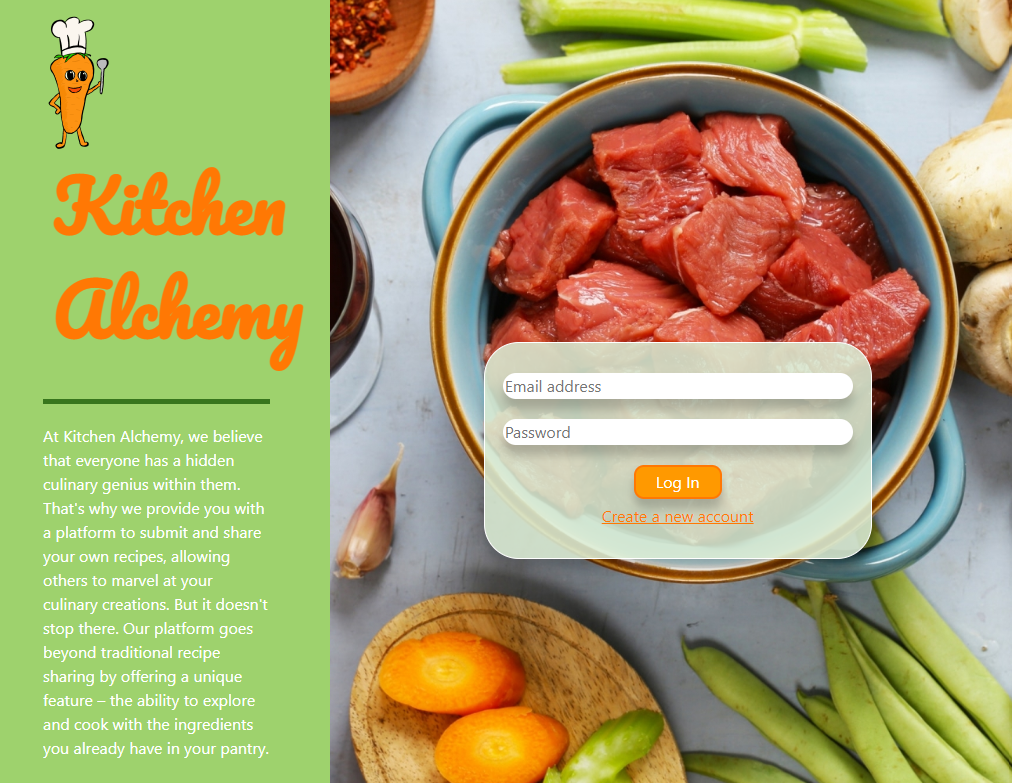
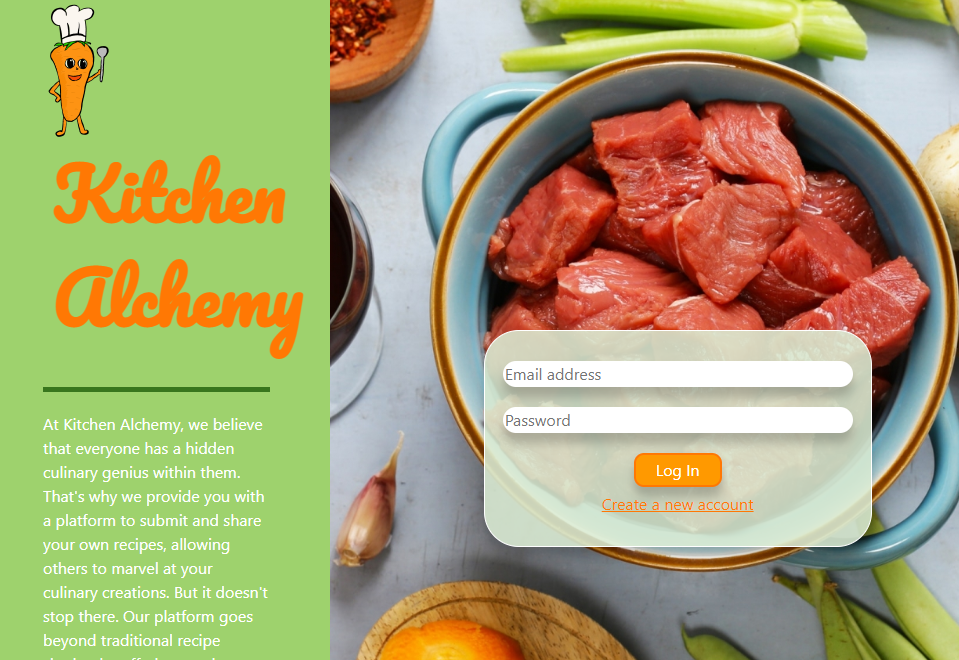
switch box to grid component

diff --git a/src/components/pages/Resume.js b/src/components/pages/Resume.js
@@ -2,22 +2,9 @@ import React from 'react';
 import ResumePDF from '../../assets/files/Sarah-Jensen_resume.pdf';
 import BackEnd from '../../assets/images/back-end.png';
 import FrontEnd from '../../assets/images/front-end.png';
-import {
-  Box,
-  Button,
-  Card,
-  CardActionArea,
-  CardContent,
-  CardMedia,
-  Collapse,
-  Container,
-  IconButton,
-  makeStyles,
-  Typography,
-} from '@material-ui/core';
-import { ExpandMore } from '@material-ui/icons';
+import SkillCard from '../SkillCard.js';
+import { Grid, Button, Container, makeStyles } from '@material-ui/core';
 import { GetApp, Done } from '@material-ui/icons';
-import clsx from 'clsx';
 
 const useStyles = makeStyles((theme) => ({
   card: {
@@ -27,11 +14,7 @@ const useStyles = makeStyles((theme) => ({
     border: 2,
     backgroundColor: '#9daeb3',
     color: '#0f4c5c',
-    width: 'min-content'
-  },
-  cardBox: {
-    flexDirection: 'row',
-    justifyContent: 'space-evently',
+    flexBasis: 'calc(50% - 16px)',
   },
   button: {
     margin: theme.spacing(1),
@@ -67,10 +50,21 @@ const useStyles = makeStyles((theme) => ({
 
 export const Resume = () => {
   const classes = useStyles();
-  const [expanded, setExpanded] = React.useState(false);
-  const handleExpandClick = () => {
-    setExpanded(!expanded);
-  };
+
+  const frontEnd = [
+    'HTML',
+    'CSS (Tailwind, Material-UI, Bootstrap)',
+    'JavaScript',
+    'JQuery',
+    'React',
+  ];
+  const backEnd = [
+    'Node',
+    'Express',
+    'MySQL & Sequelize',
+    'MondoDB & Mongoose',
+    'CRUD',
+  ];
 
   return (
     <Container>
@@ -84,98 +78,35 @@ export const Resume = () => {
         Download PDF
       </Button>
 
-      <Box className={classes.cardBox}>
-        <Card className={classes.card}>
-          <CardActionArea>
-            <CardMedia
-              className={classes.media}
-              image={FrontEnd}
-            />
-            <CardContent>
-              <Typography
-                variant='h5'
-                component='h2'
-                style={{
-                  color: '#283845',
-                  marginTop: '-8px',
-                }}
-              >
-                Front-End Proficiencies
-                <IconButton
-                  className={clsx(classes.expand, {
-                    [classes.expandOpen]: expanded,
-                  })}
-                  onClick={handleExpandClick}
-                  aria-expanded={expanded}
-                  aria-label='show more'
-                >
-                  <ExpandMore />
-                </IconButton>
-              </Typography>
-            </CardContent>
-          </CardActionArea>
-          <Collapse
-            in={expanded}
-            timeout='auto'
-            unmountOnExit
-          >
-            <CardContent>
-              <Typography paragraph>HTML</Typography>
-              <Typography paragraph>
-                CSS (Tailwind, Material-UI, Bootstrap)
-              </Typography>
-              <Typography paragraph>JavaScript</Typography>
-              <Typography paragraph>JQuery</Typography>
-              <Typography paragraph>React</Typography>
-              <Typography></Typography>
-            </CardContent>
-          </Collapse>
-        </Card>
-        <Card className={classes.card}>
-          <CardActionArea>
-            <CardMedia
-              className={classes.media}
-              image={BackEnd}
-            />
-            <CardContent>
-              <Typography
-                variant='h5'
-                component='h2'
-                style={{
-                  color: '#283845',
-                  marginTop: '-8px',
-                }}
-              >
-                Back-End Proficiencies
-                <IconButton
-                  className={clsx(classes.expand, {
-                    [classes.expandOpen]: expanded,
-                  })}
-                  onClick={handleExpandClick}
-                  aria-expanded={expanded}
-                  aria-label='show more'
-                >
-                  <ExpandMore />
-                </IconButton>
-              </Typography>
-            </CardContent>
-          </CardActionArea>
-          <Collapse
-            in={expanded}
-            timeout='auto'
-            unmountOnExit
-          >
-            <CardContent>
-              <Typography paragraph>Node</Typography>
-              <Typography paragraph>Express</Typography>
-              <Typography paragraph>MySQL & Sequelize</Typography>
-              <Typography paragraph>MondoDB & Mongoose</Typography>
-              <Typography paragraph>CRUD</Typography>
-              <Typography></Typography>
-            </CardContent>
-          </Collapse>
-        </Card>
-      </Box>
+      <Grid
+        container
+        className={classes.root}
+        direction='row'
+        justifyContent='space-evenly'
+        alignItems='center'
+      >
+        <Grid
+          item
+          xs
+        >
+          <SkillCard
+            image={FrontEnd}
+            title='Front-End Proficiencies'
+            skills={frontEnd}
+          />
+        </Grid>
+
+        <Grid
+          item
+          xs
+        >
+          <SkillCard
+            image={BackEnd}
+            title='Back-End Proficiencies'
+            skills={backEnd}
+          />
+        </Grid>
+      </Grid>
     </Container>
   );
 };

diff --git a/src/components/SkillCard.js b/src/components/SkillCard.js
@@ -1,0 +1,109 @@
+import React from "react";
+import { makeStyles } from "@material-ui/core/styles";
+import clsx from 'clsx';
+import {
+  Card,
+  CardActionArea,
+  CardContent,
+  CardMedia,
+  Collapse,
+  IconButton,
+  Typography,
+} from "@material-ui/core";
+import {
+  ExpandMore,
+} from "@material-ui/icons";
+
+const useStyles = makeStyles((theme) => ({
+  root: {
+    flexGrow: 1,
+   padding: "16px",
+   margin: "8px",
+   border: 0,
+   backgroundColor: "#9daeb3",
+    color: "#0f4c5c",
+  },
+  media: {
+
+    height: 400,
+  },
+  expand: {
+    transform: 'rotate(0deg)',
+    marginLeft: 'auto',
+    transition: theme.transitions.create('transform', {
+      duration: theme.transitions.duration.shortest,
+    }),
+  },
+  expandOpen: {
+    transform: 'rotate(180deg)',
+  },
+})
+);
+
+//create Typography component for each item in a list of skills
+function skillList(props) {
+    return (
+      <div>
+        {props.skills.map((skill, index) => (
+          <Typography key={index} paragraph component='div' variant='h6'>
+            {skill}
+          </Typography>
+        ))}
+      </div>
+    );
+  }
+
+
+//export SkillCard to use in Resume page component  
+const SkillCard = (props) => {
+  const classes = useStyles();
+
+  const [expanded, setExpanded] = React.useState(false);
+
+  //function to handle click on expand icon
+  const handleExpandClick = () => {
+    setExpanded(!expanded);
+  };
+
+  
+
+  return (
+
+      <Card className={classes.root}>
+        <CardActionArea>
+          <CardMedia
+            className={classes.media}
+            image={props.image}
+            alt={props.imgAlt}
+          
+          />
+          <CardContent>
+            <Typography  variant="h5" component="h2" style={{
+                color:"#283845", fontWeight: 'bold', marginTop:"-8px"}}>
+              {props.title}
+
+            <IconButton
+          className={clsx(classes.expand, {
+            [classes.expandOpen]: expanded,
+          })}
+          onClick={handleExpandClick}
+          aria-expanded={expanded}
+          aria-label="show more"
+          >
+          <ExpandMore />
+        </IconButton>
+          </Typography>
+          </CardContent>
+        </CardActionArea>
+        <Collapse in={expanded} timeout="auto" unmountOnExit>
+        <CardContent>
+          {skillList(props)}
+        </CardContent>
+      </Collapse>
+      </Card>
+  );
+};
+
+
+  
+export default SkillCard;

diff --git a/src/components/Footer.js b/src/components/Footer.js
@@ -15,7 +15,7 @@ const useStyle = makeStyles({
   root: {
     position: 'static',  
     margin: 'auto',
-    marginTop: '5%',
+    // marginTop: '3%',
     background: 'linear-gradient(45deg, #db7c26 30%, #f6aa1c 90%)',
     color: '#e9d8a6',
     height: '60px'

diff --git a/src/components/pages/AboutMe.js b/src/components/pages/AboutMe.js
@@ -12,6 +12,9 @@ import Avatar from '../../assets/images/avatar.png';
 const useStyles = makeStyles((theme) => ({
   root: {
     height: '100%',
+    marginBottom: '5%',
+    marginTop: '2%'
+  
   },
   media: {
     borderRadius: '50%',

diff --git a/src/components/Navbar.js b/src/components/Navbar.js
@@ -13,7 +13,7 @@ const useStyles = makeStyles({
   root: {
     background: 'linear-gradient(45deg, #0f4c5c 30%, #0a9396 90%)',
     color: '#e5e6e4', 
-    marginBottom: '5%',
+    marginBottom: '3%',
   },
   title: {
     flexGrow: 1,

diff --git a/src/components/pages/Contact.js b/src/components/pages/Contact.js
@@ -93,7 +93,7 @@ const handleFormSubmit = (e) => {
 };
 
   return (
-    <Container maxWidth="sm" >
+    <Container maxWidth="sm"  >
       <Grid
         container
         className={classes.root}

diff --git a/src/App.js b/src/App.js
@@ -36,7 +36,6 @@ const App = () => {
       <Container
         maxHeight
         maxWidth
-        removeGutters
         style={{
           height: '100%',
           display: 'flex',

diff --git a/src/utils/styles/styles.css b/src/utils/styles/styles.css
@@ -1,9 +1,6 @@
 
-*{
-    outline: 1px solid red;
-   }
 
-html, body {
+html {
     height: 100%;
     background-color: #b5c2b7;
 }
